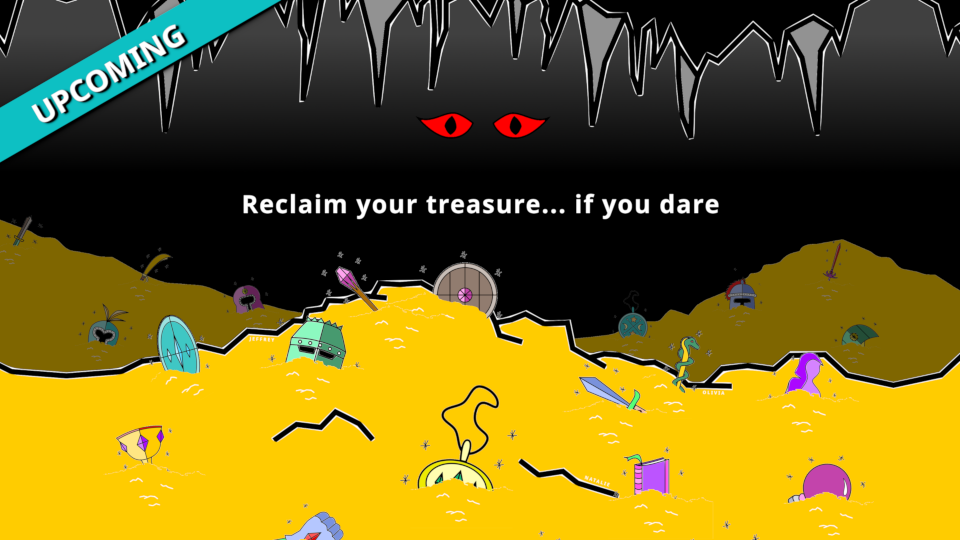
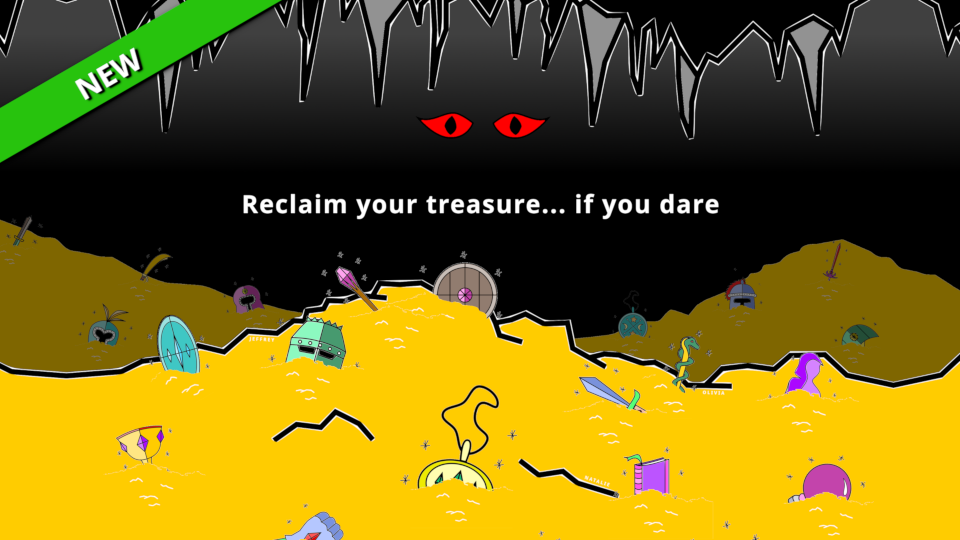
Updated Into The Dragons Den to "NEW".

Changed region(s): [[0.0, 0.0, 0.2812, 0.2963]]

diff --git a/_tabletop_games/IntoTheDragonsDen.md b/_tabletop_games/IntoTheDragonsDen.md
@@ -21,18 +21,18 @@ theme_color: '#181818'
 
 ## Description
 
-**Into The Dragons Den \| Match-A-Quest** is a tile matching / memory game for the whole family.
+**Into The Dragons Den \| Match-A-Quest** is a tile matching / memory game that is fun for the whole family.
 
 Players take on the role of villagers trying to reclaim treasure stolen by a group of dragons.
 The player with the most coin earned for their treasure at the end of the game wins!
 
-* Reclaim treasure by matching tile pairs
+* Reclaim treasure (and earn coins) by matching tile pairs
 * 23 different treasures to reclaim
-* 4 playable kingdoms (Red / Green / Blue / Black)
-* Team up with villagers from same kingdoms
-* Complete individual quests to earn extra coin
+* 4 playable kingdoms (Red/Green/Blue/Black)
+* Team up with villagers from the same kingdom
+* Complete individual quests to earn extra coins
 * Stay away from the dragons breath (otherwise you will lose an already reclaimed treasure)
-* Find all 4 dragons to end the round (earning extra coin & hopefully keeping your reclaimed treasure)
+* Find all 4 dragons to end the round (earning extra coins & hopefully keeping your reclaimed treasure)
 * Play 1 to 6 rounds (approximately 15 minutes per round)
 
 ## Story
@@ -55,13 +55,25 @@ Some treasure tile examples:
 
 Players take turns trying to match tile pairs to reclaim treasure and earn coin when the treasure is returned to their kingdom at the end of a round. 
 
+* Coins are earned for treasure returned to a villager's kingdom at the end of each round.  
+* Gold treasure is worth 3 coins and all other treasure is worth 1 coin (however, sword/shield/helmet treasures can potentially earn an extra coin each).
+* Reclaimed treasure covered by the Dragon's Breath cannot be used and earn no coins.
+* The King's Chalice and Queen's Crown earn one extra turn each (taken immediately when found).
+* The Invisibility Cloak protects a villagers' treasure from the dragons at the end of a round.
+* A round ends when all 4 dragons have been found.
+* The villager that finds the dragons earns an extra 5 coins and, if they have a shield treasure, protect all villagers so they can escape with their reclaimed treasure.  Without a shield treasure, only villagers that have found the Invisibility Cloak treasure escape with all their reclaimed treasure.
+* Coins are collected for reclaimed treasure and the next round ("a journey back into the dragon's den") may begin.
+* The game ends when no more rounds are to be played.  The total amount of coins earned for all rounds is added up and the villager with the most coins wins!
+
+<!-- Players take turns trying to match tile pairs to reclaim treasure and earn coin when the treasure is returned to their kingdom at the end of a round. 
+
 * Gold treasure are worth 3 coin each and all other treasure are worth 1 coin each. 
 * Matching helmet/sword/shield treasure to kingdom gem icons earn extra coin. 
 * Note: it's a good thing to have reclaimed an Invisibility Cloak treasure.
 
 Stay away from the Dragons Breath... matching of these tiles will cause you to lose your most valuable reclaimed treasure.
 
-A round ends when all four Dragons have been found. The player who ends the round needs to have a Shield treasure to protect everyone, otherwise players may lose all their reclaimed treasure for the round. 
+A round ends when all four Dragons have been found. The player who ends the round needs to have a Shield treasure to protect everyone, otherwise players may lose all their reclaimed treasure for the round.  -->
 
 The 4 Dragon tile examples and a Dragon Breath tile example:
 
@@ -105,18 +117,25 @@ The 4 Dragon tile examples and a Dragon Breath tile example:
 
 ![image 16]({{ site.baseurl }}/assets/img/projects/tabletop_games/into_the_dragons_den/16-IntoTheDragonsDen_GameOver.png){:.lead width="960" height="540" loading="lazy"}
 
-## Get It Soon
+## Instruction Booklet
 
-**Into The Dragons Den \| Match-A-Quest** will be available for purchase soon.
+Use the link below for more detailed instructions on how to play.
 
-<!-- ## Get It Now
+[![Red Instruction Booklet](https://www.dropbox.com/s/c2wk0z4zzp0zf5z/InstructionBooklet_RED_gamecrafter.png?raw=1)](https://www.dropbox.com/s/t0bgr23vd9l4jam/InstructionBooklet_2019_RED.pdf?raw=1){:target="_blank" : .no-mark}
+&nbsp; **Instruction Booklet (English PDF)** | [Download](https://www.dropbox.com/s/t0bgr23vd9l4jam/InstructionBooklet_2019_RED.pdf?raw=1){:target="_blank"}
+
+## Get It Now
 
 Use the link below to get **Into The Dragons Den \| Match-A-Quest**.  
 
 [Into The Dragons Den / 2019 Red](https://www.thegamecrafter.com/games/into-the-dragons-den-red-1){:target="_blank"}
 
-## &nbsp;
+&nbsp;
 
 *Games are produced and shipped by [The Game Crafter](https://www.thegamecrafter.com){:target="_blank"}*
 
-[![The Game Crafter]({{ site.baseurl }}/assets/img/tools/thegamecrafter.png "The Game Crafter")](https://www.thegamecrafter.com){:target="_blank" : .no-mark} -->
+[![The Game Crafter]({{ site.baseurl }}/assets/img/tools/thegamecrafter.png "The Game Crafter")](https://www.thegamecrafter.com){:target="_blank" : .no-mark}
+
+<p align="center">
+  <img width="15" height="14" src="{{ site.baseurl }}/assets/img/projects/tabletop_games/into_the_dragons_den/TributeHeart.png">
+</p>
